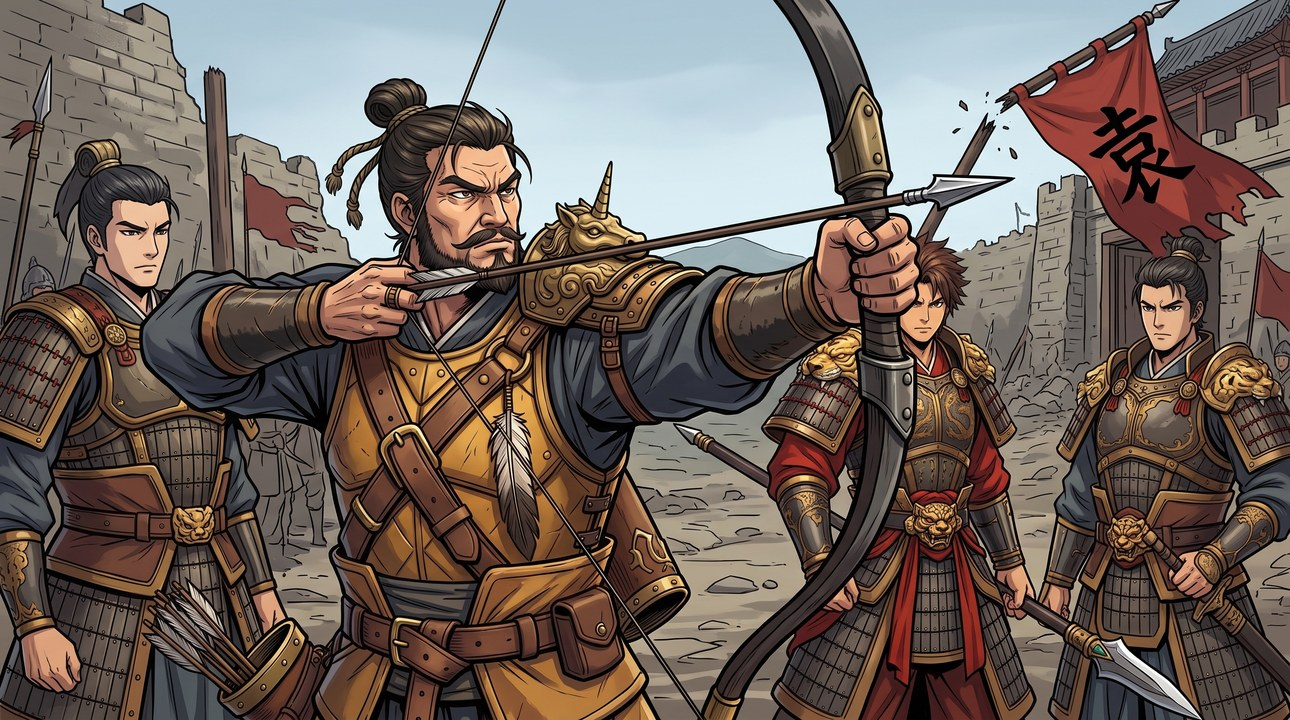
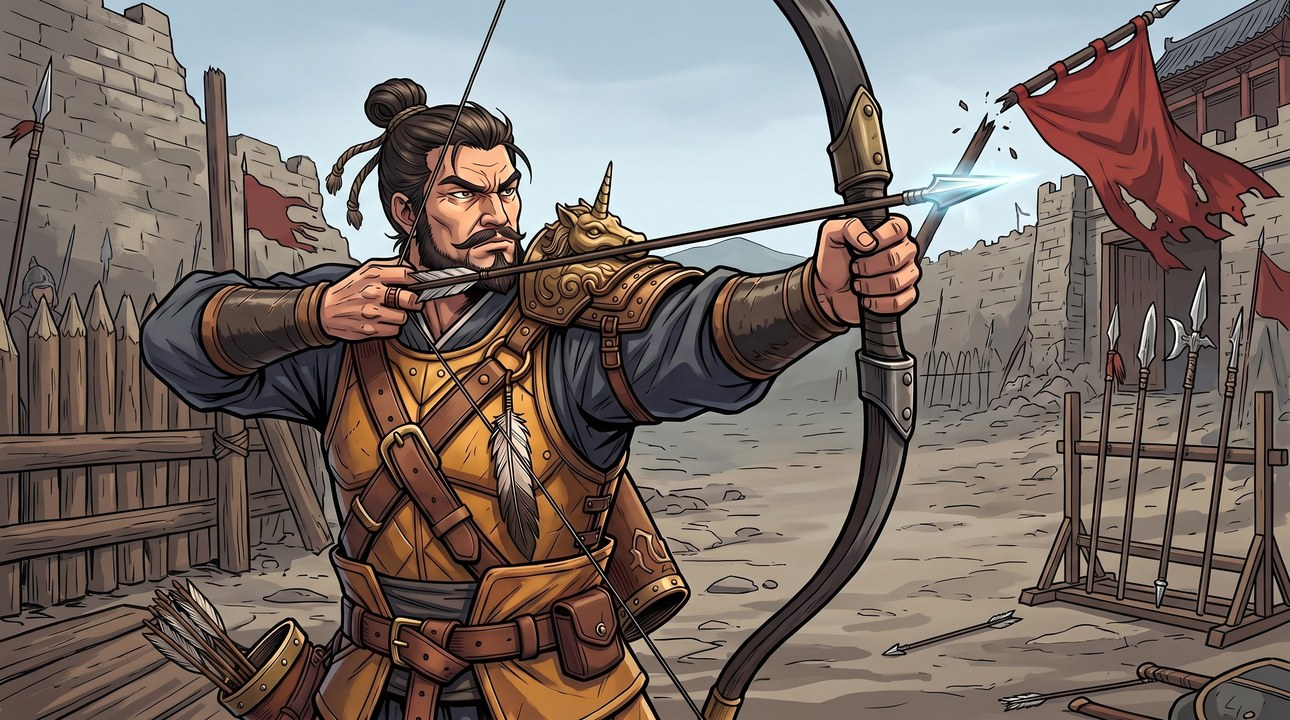
黄忠 CG 只留黄忠一人，旗面翻卷不露字
Claude-Session: https://claude.ai/code/session_016SRjkh7G4TgKD1BFQ31rxh

diff --git a/docs/chapters/04-南线-挟天子.md b/docs/chapters/04-南线-挟天子.md
@@ -1830,8 +1830,8 @@
   - 提示：玉玺：半毁的洛阳临时大殿，小皇帝（穿明黄便袍）在简陋的龙椅上轻声发问；孙坚躬身回话，面色平静，双手空空、垂在身侧的拳头攥得发白，他手里和殿上任何地方都没有盒子、锦盒、箱子或任何捧着的东西；周瑜低头记账；主角在群臣中沉默；吴夫人在后面望着孙坚，神色担忧；主角也在殿上，不带刀，双手空着
   - 参考立绘：主角 → `pics/source/generals/lord.jpg`；吴夫人 → `pics/source/generals/wuguotai.jpg`；小皇帝 → `pics/source/generals/xiandi_robe.jpg`；周瑜 → `pics/source/generals/zhouyu.jpg`；孙坚 → `pics/source/generals/sunjian.jpg`
 - `c7_huangzhong` ✅ 已有
-  - 提示：黄忠：南阳被攻下的营寨，四十来岁的壮实军汉黄忠，粗布军衣、手腕上还有绳痕，拉满一张硬弓，一箭射断远处营门上的大旗旗杆——红底大旗上只有一个巨大、清晰、笔画正确的黑色「袁」字，旗上没有其他文字；孙策张大嘴，主角咧嘴笑
-  - 参考立绘：主角 → `pics/source/generals/lord.jpg`；黄忠 → `pics/source/generals/huangzhong.jpg`；孙策 → `pics/source/generals/sunce.jpg`
+  - 提示：黄忠：南阳被攻下的营寨，四十来岁的壮实军汉黄忠，粗布军衣、手腕上还有绳痕，拉满一张硬弓，一箭射断远处营门上的大旗旗杆，红底大旗翻卷着往下栽、看不清旗上的字；画面里只有黄忠一个人，不要孙策、不要主角、不要其他将领
+  - 参考立绘：黄忠 → `pics/source/generals/huangzhong.jpg`
 - `c7_stars` ✅ 已有
   - 提示：夏夜军营上方草木葱郁的山丘，满天低垂璀璨的繁星：一袭白衣的成年蔡文姬在膝头抚琴，主角仰卧在草丛中静静聆听
   - 参考立绘：主角 → `pics/source/generals/lord.jpg`；蔡文姬 → `pics/source/generals/caiwenji.jpg`

diff --git a/pics/ART-LOG.md b/pics/ART-LOG.md
@@ -1638,3 +1638,4 @@
 - [x] 2026-11-20 cg `c6_jiaxu_join` ← e_jiaxu_join.jpg · ok
 - [x] 2026-11-20 cg `c6_seal` ← e_seal.jpg · ok
 - [x] 2026-11-20 portrait `rc_dongui` ← rc_dongui_card.jpg · ok
+- [x] 2026-11-20 cg `c7_huangzhong` ← e_huangzhong.jpg · ok
